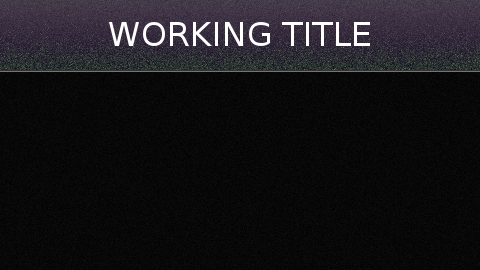
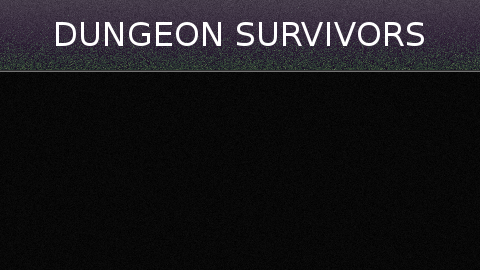
cleanup & new title screen

Changed region(s): [[0.0938, 0.0593, 0.9062, 0.1778]]

diff --git a/Game++ Tile/src/de/nerogar/game/graphics/gui/GSettings.java b/Game++ Tile/src/de/nerogar/game/graphics/gui/GSettings.java
@@ -6,8 +6,6 @@ import static org.lwjgl.opengl.GL11.glEnd;
 import static org.lwjgl.opengl.GL11.glTexCoord2f;
 import static org.lwjgl.opengl.GL11.glVertex3f;
 
-import java.util.Random;
-
 import de.nerogar.game.*;
 import de.nerogar.game.graphics.TextureBank;
 import de.nerogar.game.sound.SoundCategory;

diff --git a/Game++ Tile/src/de/nerogar/game/weapon/EnergyRestore.java b/Game++ Tile/src/de/nerogar/game/weapon/EnergyRestore.java
@@ -2,8 +2,6 @@ package de.nerogar.game.weapon;
 
 import de.nerogar.game.Vector;
 import de.nerogar.game.entity.*;
-import de.nerogar.game.sound.Sound;
-import de.nerogar.game.sound.SoundCategory;
 import de.nerogar.game.sound.SoundManager;
 
 public class EnergyRestore extends Weapon {

diff --git a/Game++ Tile/src/de/nerogar/game/weapon/Heal.java b/Game++ Tile/src/de/nerogar/game/weapon/Heal.java
@@ -2,8 +2,6 @@ package de.nerogar.game.weapon;
 
 import de.nerogar.game.Vector;
 import de.nerogar.game.entity.*;
-import de.nerogar.game.sound.Sound;
-import de.nerogar.game.sound.SoundCategory;
 import de.nerogar.game.sound.SoundManager;
 
 public class Heal extends Weapon {

diff --git a/Game++ Tile/src/de/nerogar/game/Map.java b/Game++ Tile/src/de/nerogar/game/Map.java
@@ -6,7 +6,6 @@ import static org.lwjgl.opengl.GL20.*;
 import java.nio.FloatBuffer;
 import java.util.ArrayList;
 import java.util.HashMap;
-import java.util.concurrent.BrokenBarrierException;
 
 import org.lwjgl.BufferUtils;
 import org.lwjgl.opengl.Display;

diff --git a/Game++ Tile/src/de/nerogar/game/weapon/Bomb.java b/Game++ Tile/src/de/nerogar/game/weapon/Bomb.java
@@ -2,8 +2,6 @@ package de.nerogar.game.weapon;
 
 import de.nerogar.game.Vector;
 import de.nerogar.game.entity.*;
-import de.nerogar.game.sound.Sound;
-import de.nerogar.game.sound.SoundCategory;
 
 public class Bomb extends Weapon {
 	
